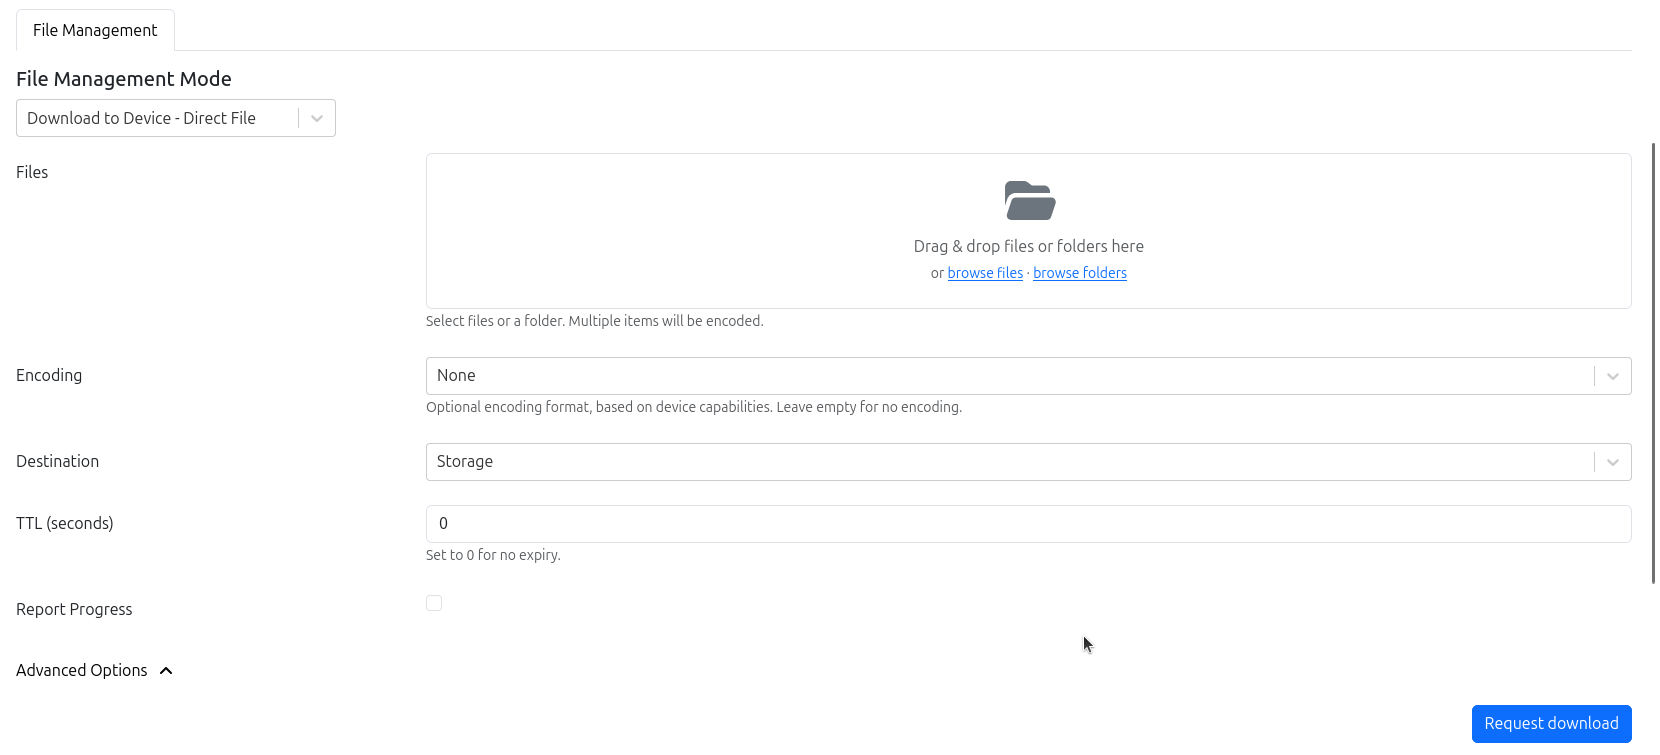
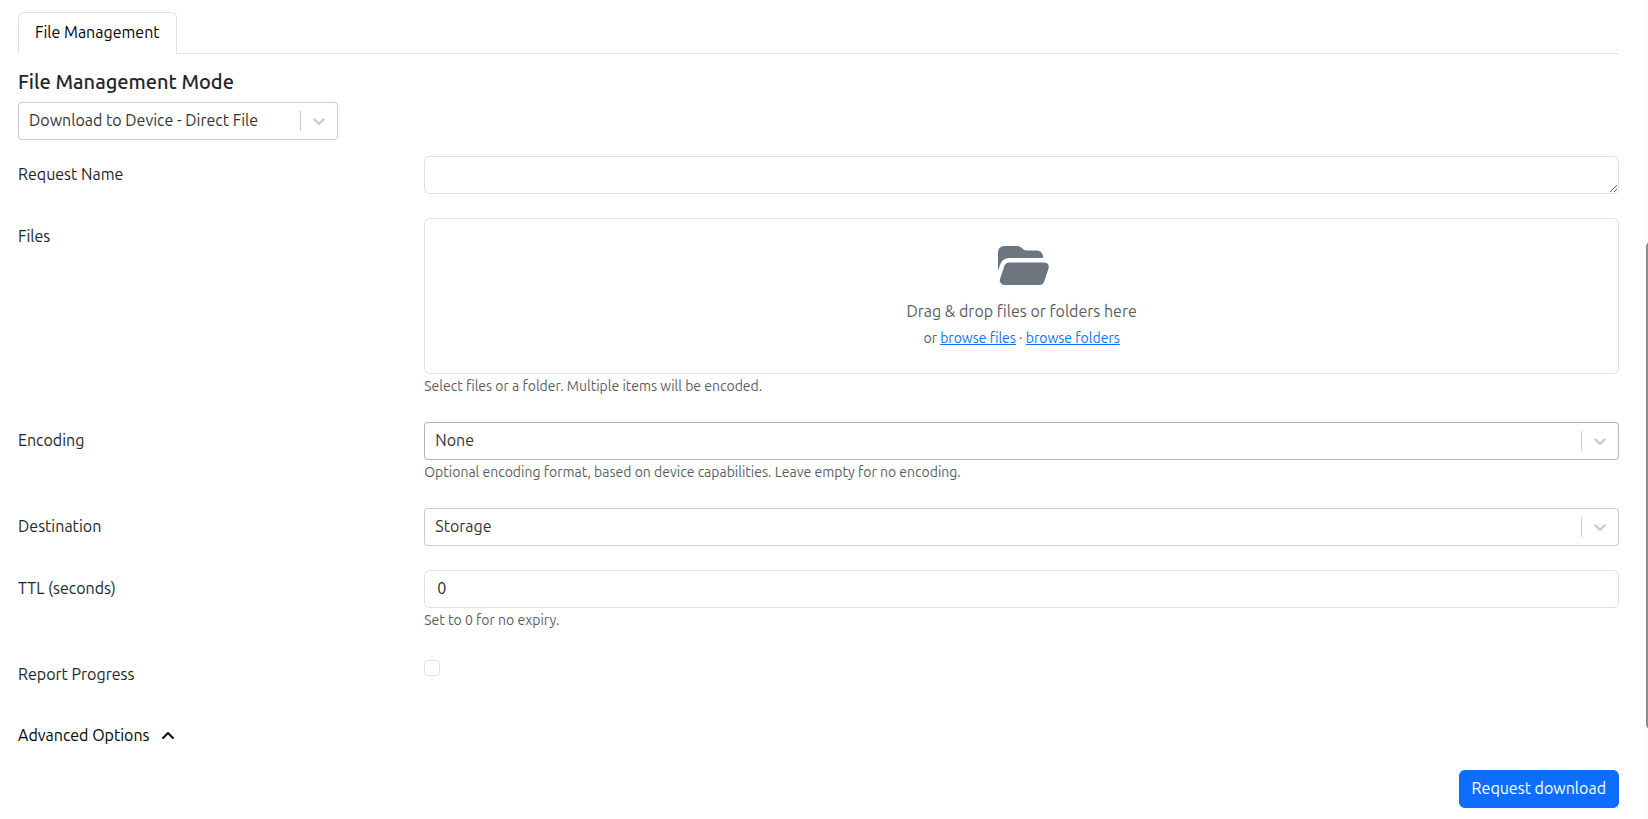
docs: Document Request Name for file download requests
Add explanation of the new Request Name field to the File Management
overview and clarify that a File Download Campaign's name is used as
the Request Name for campaign-created requests.

diff --git a/backend/docs/pages/file_management/overview_file_management.md b/backend/docs/pages/file_management/overview_file_management.md
@@ -79,6 +79,9 @@ A File Download Request instructs a Device to fetch a File and deliver it to one
 
 Requests can target a single Device (manual request) or be created in bulk as part of a campaign.
 
+File Download Requests include a **Request Name** field, a user-provided name to identify the request. When
+requests are created as part of a File Download Campaign, the Campaign Name is used as the Request Name.
+
 ### Encoding Support
 
 File Download Requests support different encoding options to optimize transfer bandwidth and device processing:

diff --git a/backend/docs/pages/file_management/file_download_campaigns.md b/backend/docs/pages/file_management/file_download_campaigns.md
@@ -37,6 +37,8 @@ following information:
 - **Advanced Options**: encoding, file mode, UID/GID, retries, and request timeout.
 - **[Roll-out Mechanism](#roll-out-mechanism)** properties.
 
+> **Note**: the Campaign Name is used as the `Request Name` for the requests created by the campaign
+
 Press "Create" to save the Campaign. When started, Edgehog snapshots the Channel membership and targets only those
 Devices for the campaign run.
 